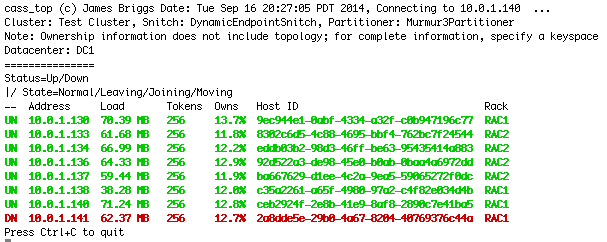
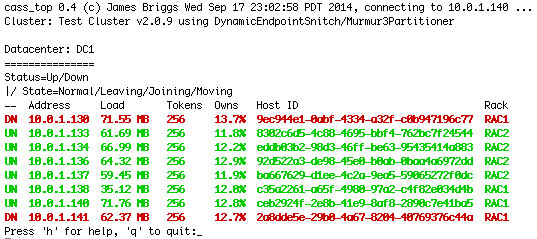
added a few more nodetool options and help screen

Changed region(s): [[0.0, 0.2636, 0.9534, 1.0], [0.0, 0.0, 0.9832, 0.2343]]

diff --git a/README.md b/README.md
@@ -1,15 +1,18 @@
 cassandra-top
 =============
 
-Cassandra top command to monitor cluster cass_top
+Cassandra top command to monitor cluster named cass_top, similar to the linux top command.
 
-cass_top is a wrapper around the Cassandra nodetool command that colorizes the nodes by status.
+cass_top is a wrapper around the Cassandra nodetool command that:
 
-- bash only (no dependencies except nodetool)
-- no firewall holes needed
-- minimal output to show multiple Cassandra rings on the same monitor
+- colorizes the nodes by status
+- has interactive option keys for several nodetool reporting options, documented on the help screen
+- bash only (no dependencies except nodetool and grep)
+- no additional firewall holes needed
+- minimal output to show multiple Cassandra rings on the same monitor.
 
 Usage: cass_top [host] [keyspace]
 
 ![cass_top screenshot](cass_top.png?raw=true "cass_top screenshot")
+![cass_top_help screenshot](cass_top_help.png?raw=true "cass_top_help screenshot")
 
